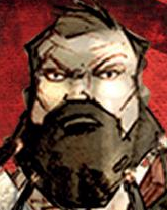
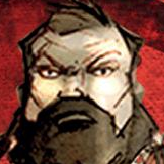
Thumbnails, highlight on selected suggestion, removed some hardcoding

diff --git a/src/components/PlayerSuggestion.js b/src/components/PlayerSuggestion.js
@@ -1,21 +1,39 @@
 import React, {Component} from 'react'
 import '../App.css'
 
-
+const getSimplifiedPlayerName = name => {
+    return name.replace(/ /g,'').toLowerCase();
+}
 
 class PlayerSuggestion extends React.Component {
     render() {
-        return (
-            <div className={"playerSuggestion"} style={{backgroundColor: "#CA6567", borderColor: "#CA6567"}}>
-                <img className={"playerSuggestionThumbnail"} src={"../../data/thumbnails/ox.png"} />
-                <p className={"playerSuggestionName"}>
-                    {this.props.playerName}
-                </p>
-                <p className={"playerSuggestionDescription"}>
-                    {this.props.playerDescription}
-                </p>
-            </div>
-        )
+        if(this.props.highlight) {
+            return (
+                <div className={"playerSuggestion playerSuggestion_" + this.props.guild + " playerSuggestionHighlighted"}>
+                    <img className={"playerSuggestionThumbnail"} src={"../../data/thumbnails/" + getSimplifiedPlayerName(this.props.playerName) + ".png"} />
+                    <p className={"playerSuggestionName"}>
+                        {this.props.playerName}
+                    </p>
+                    <p className={"playerSuggestionDescription"}>
+                        {this.props.playerDescription}
+                    </p>
+                </div>
+            )
+        }
+        else {
+            return (
+                <div className={"playerSuggestion playerSuggestion_" + this.props.guild} >
+                    <img className={"playerSuggestionThumbnail"} src={"../../data/thumbnails/" + getSimplifiedPlayerName(this.props.playerName) + ".png"} />
+                    <p className={"playerSuggestionName"}>
+                        {this.props.playerName}
+                    </p>
+                    <p className={"playerSuggestionDescription"}>
+                        {this.props.playerDescription}
+                    </p>
+                </div>
+            )
+        }
+
     }
 }
 

diff --git a/src/App.css b/src/App.css
@@ -80,19 +80,28 @@ ul {
     text-align:left;
 }
 
+.playerSuggestion_butchers {
+    background-color: #CA6567;
+    border-color: #CA6567;
+}
+
+.playerSuggestionHighlighted {
+    border-color: #FFFFFF;
+}
+
 .playerSuggestionThumbnail {
-    height:35px;
+    height:34px;
     margin-right: 5px;
     float:left;
     position:relative;
-    top:-2px;
+    top:0px;
 }
 
 .playerSuggestionName {
     font-size:26px;
     font-weight:bold;
     position:relative;
-    top:-8px;
+    top:-6px;
     margin-bottom:2px;
     height:26px;
 }

diff --git a/src/components/SearchBar.js b/src/components/SearchBar.js
@@ -23,7 +23,7 @@ const getSuggestionValue = suggestion => suggestion.name;
 // Use your imagination to render suggestions.
 const renderSuggestion = (suggestion, {query, isHighlighted}) => (
     <div>
-        <PlayerSuggestion playerName={suggestion.name} playerDescription={suggestion.tags[0] + ", " + suggestion.tags[1]}/>
+        <PlayerSuggestion guild={suggestion.guildId} playerName={suggestion.name} playerDescription={suggestion.tags[0] + ", " + suggestion.tags[1]} highlight={isHighlighted}/>
     </div>
 );
 
